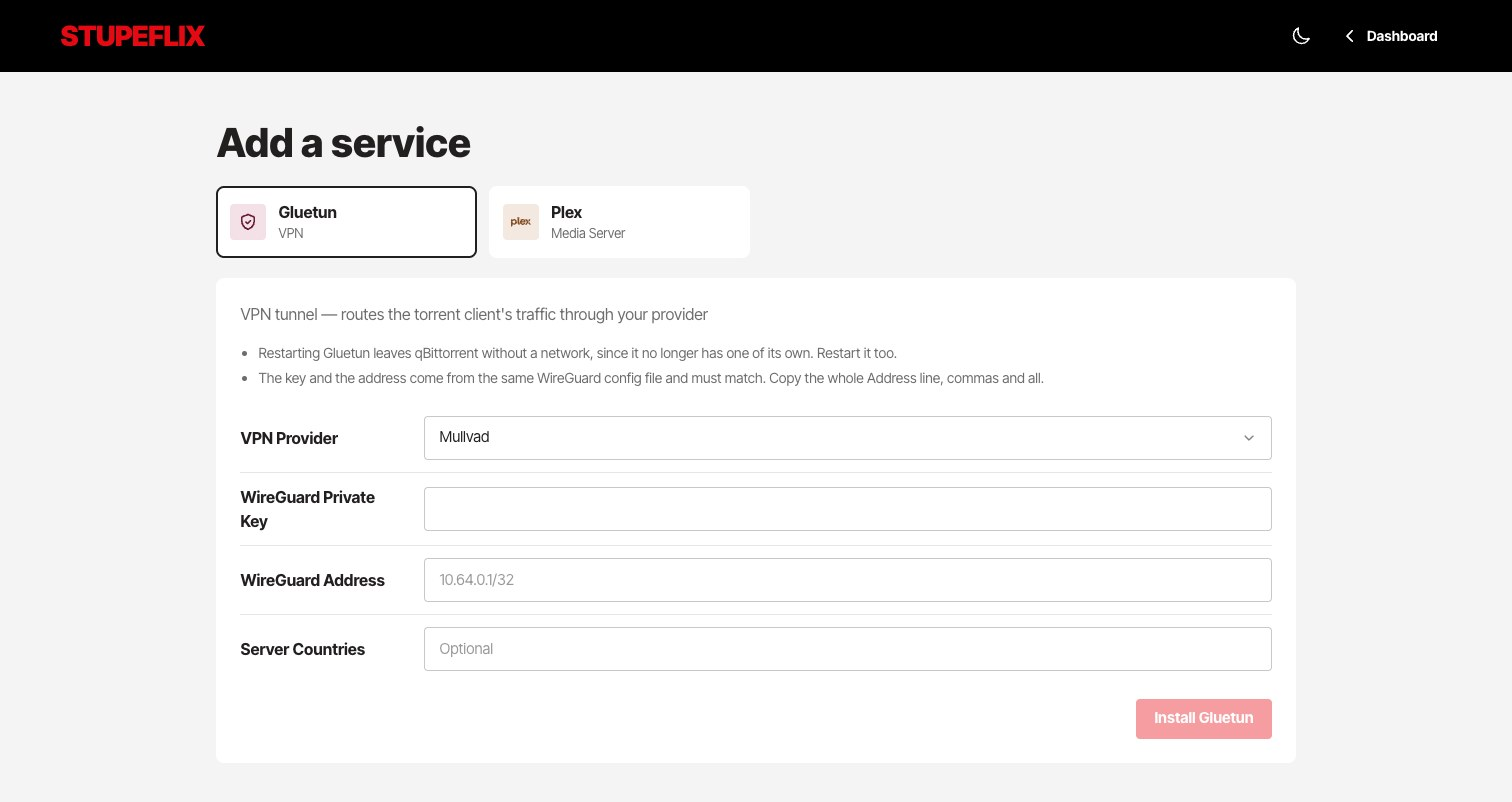
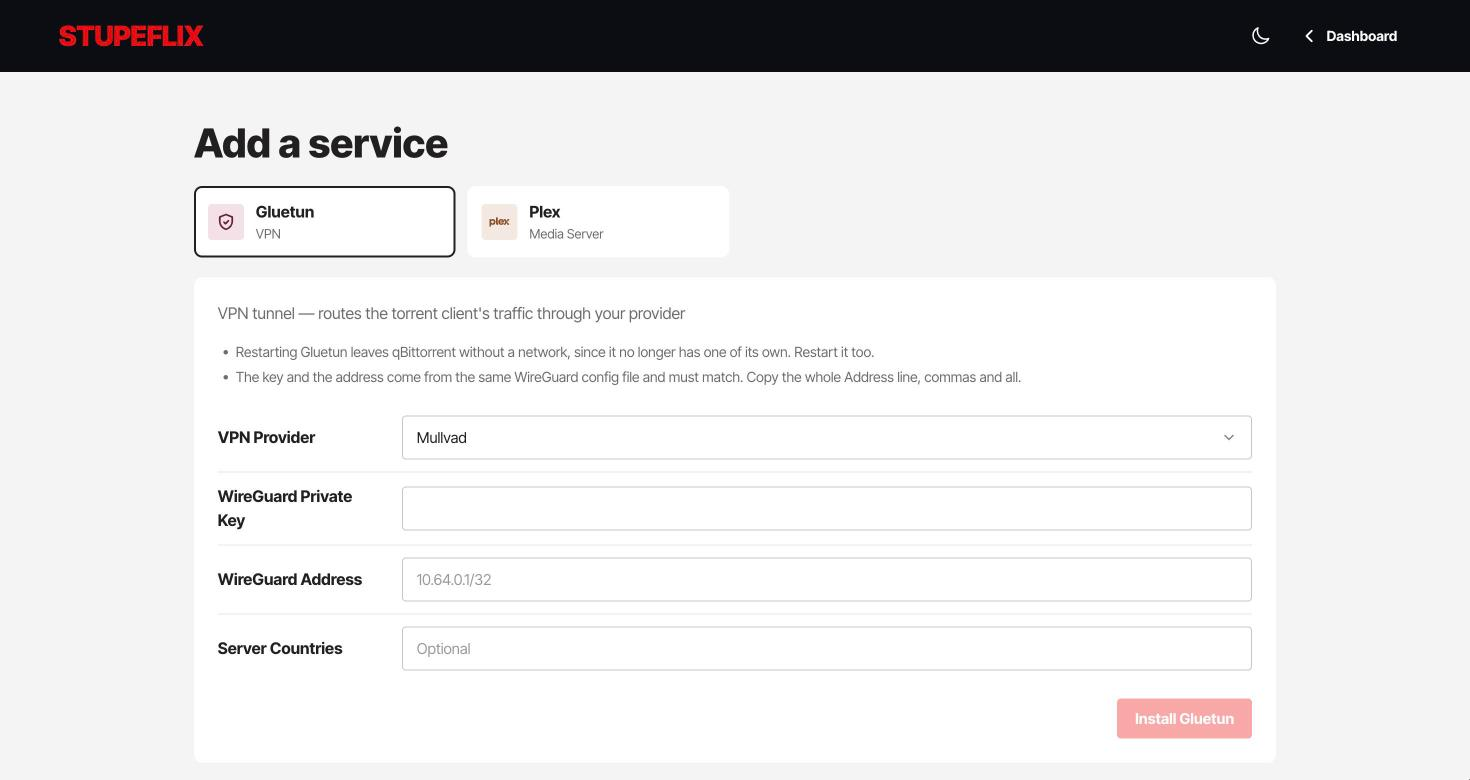
docs: crépuscule tokens and retaken screenshots

diff --git a/docs/DESIGN.md b/docs/DESIGN.md
@@ -32,43 +32,48 @@ file and the code disagree, the code wins and this file is the one to fix.
 
 ## Tokens
 
-RGB channels (`--page: 20 20 20`) so `/alpha` works (`bg-fg/10`). `line`,
+RGB channels (`--page: 20 22 31`) so `/alpha` works (`bg-fg/10`). `line`,
 `fail-bg` and `secondary` are whole values and are used as they are.
 
 | Token | Dark (dashboard, night) | Light | Role |
 |---|---|---|---|
-| `page` | `#141414` | `#F4F4F4` | Screen ground |
-| `card` | `#232323` | `#FFFFFF` | Cards, fields, selected nav item |
-| `raised` | `#333333` | `#EDEDED` | One step above a card |
+| `page` | `#14161F` | `#F4F4F4` | Screen ground |
+| `card` | `#222532` | `#FFFFFF` | Cards, fields, selected nav item |
+| `raised` | `#323646` | `#EDEDED` | One step above a card |
 | `fg` | `#FFFFFF` | `#221F1F` | Text, `solid` button fill, focus ink |
-| `muted` | `#B3B3B3` | `#6D6D6D` | Secondary text |
-| `faint` | `#808080` | `#6D6D6D` | Tertiary text, field hover edge |
-| `track` | `#5F5F5F` | `#D6D6D6` | Switch off, progress track |
-| `field` | `#464646` | `#C8C8C8` | Field hairline at rest |
+| `muted` | `#B4B7C4` | `#6D6D6D` | Secondary text |
+| `faint` | `#808494` | `#6D6D6D` | Tertiary text, field hover edge |
+| `track` | `#5C6173` | `#D6D6D6` | Switch off, progress track |
+| `field` | `#44485A` | `#C8C8C8` | Field hairline at rest |
 | `ok` | `#46D369` | `#1E7A3C` | Running, done |
 | `warn` | `#E3A64A` | `#8A5A00` | Degraded, "worth knowing" |
 | `fail` | `#F6434F` | `#C11119` | Exited, refused field, failed step |
 | `fail-bg` | `fail` at 12% | `#FDECEC` | Failed badge ground |
 | `link` / hover | `#448EF4` / `#78ACF6` | `#0071EB` / `#005BBD` | Links |
-| `line` (default border) | white at 12% | `#E6E6E6` | Dividers |
-| `secondary` | `rgb(109 109 110 / 0.7)` | `fg` at 8% | `secondary` button |
+| `line` (default border) | `rgb(200 210 255)` at 12% | `#E6E6E6` | Dividers |
+| `secondary` | `rgb(109 112 130 / 0.7)` | `fg` at 8% | `secondary` button |
 
 Shared across modes (`:root`):
 
 | Token | Value | Role |
 |---|---|---|
 | `accent` | `#E50914` (`229 9 20`) | Next step. Hover = 84% mixed with black, pressed = 73%. Changing it is one line. |
-| `stage` | `#000000` | Top bar, dashboard ground |
+| `stage` | `#0B0D14` | Top bar, dashboard ground |
 
 Service tiles: `hsl(<hue> var(--tile-s) var(--tile-l))`. Dark mode uses
 34% / 18% with the glyph at 70% / 64%, and light mode uses 45% / 92% with the
 glyph at 55% / 34%.
 
-### Dashboard grey ladder (computed from the alphas)
+### Dashboard ink ladder (computed from the alphas)
 
-black stage → glass sheet behind the cards `#141414` (`page`) → resting card
-≈ `#191919` (library tile) → secondary button ≈ `#4c4c4c`. Service cards
-leave the ladder: their ground is their hue.
+The dark neutrals lean towards an ink blue (hue ≈ 230) instead of a pure grey:
+on `#000` and `#141414` the service tints read as mud, and a biased neutral
+ties the cards to the ground they sit on. The night mode of the light screens
+takes the same tokens.
+
+ink stage `#0B0D14` → glass sheet behind the cards `#14161F` (`page`) →
+resting card ≈ `#191B24` (library tile) → secondary button ≈ `#505261`.
+Service cards leave the ladder: their ground is their hue.
 
 ## Type
 
@@ -154,7 +159,7 @@ Top bar (overlay): `Add service` (primary sm, hidden when nothing is left to
 install) and `Settings` (ghost sm, cog).
 
 **Billboard** (`dashboard/Billboard.tsx`): the selected service on
-`bg-stage`, starting under the bar from `lg` (`lg:-mt-[72px] lg:pt-[72px]
+`bg-stage`, under a halo of its own hue, starting under the bar from `lg` (`lg:-mt-[72px] lg:pt-[72px]
 lg:pb-16`).
 - Name only, with no status word and no category, since the picked card shows
   both. Below it are the `info:` readouts row (15px muted), then condition
@@ -166,8 +171,13 @@ lg:pb-16`).
   the template has `notes`, opens them in a `Collapse` panel under the buttons,
   closed by its X or by picking another service.
 - Watermark: the service glyph at 20rem, tinted, `right-[20%]`, `top-6` so its
-  tip stays clear of the browser's edge, opacity 10% (5% when exited). It shows
+  tip stays clear of the browser's edge, opacity 20% (8% when exited). It shows
   from `lg` only, and is open at the bottom so the glass passes over it.
+- Halo: `.billboard-halo`, two radial gradients in `hsl(var(--fh) …)` — 65% /
+  32% at 55% alpha behind the glyph, 50% / 22% at 35% from the top-right
+  corner. `--fh` is the `serviceHue`, registered with `@property` so picking
+  another card slides the hue over 0.9s rather than cutting. At every width.
+  None for a full-colour logo (no hue); 30% opacity when exited.
 
 **Glass sheet**: the page below the billboard is one full-width, square-cornered
 `.glass-sheet` (absolute, `-z-10`, down to the screen's bottom past the Shell padding). From
@@ -184,9 +194,10 @@ showing through.
 all are up, `warn` when some are, `faint` when none are). Cards sit in a grid
 (`minmax(250px,1fr)`, `gap-5`: the zoom needs the room). Each card is
 `.tint-card`, 104px high, `rounded-[10px]`: a 135° gradient in the service's
-hue (`serviceHue`, `--h`; `--c: 0` turns it grey for a full-colour logo), name
+hue (`serviceHue`, `--h`; `--c: 0` turns it grey for a full-colour logo) —
+48% / 20% at 80% alpha, to 34% / 11% at 45% by 70% — name
 (17px bold) and category at the top, the glyph as a 110px watermark cut by the
-bottom-right corner (22% opacity), and the status badge at the bottom
+bottom-right corner (30% opacity), and the status badge at the bottom
 (`rowStatus`): a glass pill (`bg-fg/[0.07]`, inset 1px rim) with white text,
 colour only in its 7px dot (`TONE_DOT`). Every badge is `w-[5.5rem]` whatever
 the word, content centred; "Incomplete" is the longest and fits. A non-running
